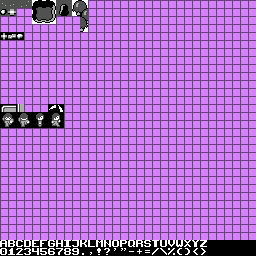
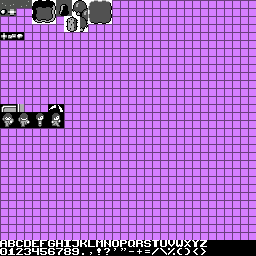
09 cactus tile and sand tile 2:16:46

Changed region(s): [[0.3438, 0.0, 0.4375, 0.0938], [0.25, 0.0625, 0.3125, 0.125]]

diff --git a/src/com/w1ll1x/ld22/level/levelgen/NoiseMap.java b/src/com/w1ll1x/ld22/level/levelgen/NoiseMap.java
@@ -1,5 +1,6 @@
 package com.w1ll1x.ld22.level.levelgen;
 
+import java.awt.Image;
 import java.awt.image.BufferedImage;
 import java.util.Random;
 
@@ -72,6 +73,10 @@ public class NoiseMap {
 	}
 
 	public static byte[][] getMap(int w, int h) {
+		NoiseMap mnoise1 = new NoiseMap(w, h, w / 8);
+		NoiseMap mnoise2 = new NoiseMap(w, h, w / 8);
+		NoiseMap mnoise3 = new NoiseMap(w, h, w / 8);
+
 		NoiseMap noise1 = new NoiseMap(w, h, w / 4);
 		NoiseMap noise2 = new NoiseMap(w, h, w / 4);
 
@@ -82,6 +87,8 @@ public class NoiseMap {
 				int i = x + y * w;
 
 				double val = Math.abs(noise1.values[i] + noise2.values[i]) * 3 - 2;
+				double mval = Math.abs(mnoise1.values[i] + mnoise2.values[i]);
+				mval = Math.abs(mval - mnoise2.values[i]) * 3 - 2;
 
 				double xd = x / (w - 1.0) * 2 - 1;
 				double yd = y / (h - 1.0) * 2 - 1;
@@ -94,16 +101,52 @@ public class NoiseMap {
 				dist = dist * dist * dist * dist;
 				val = val + 1 - dist * 20;
 
-				if (val < 0) {
+				if (val < -0.5) {
 					map[i] = Tile.water.id;
-				} else if (val > 1) {
+				} else if (val > 0.5 && mval < -1.5) {
 					map[i] = Tile.rock.id;
 				} else {
 					map[i] = Tile.grass.id;
 				}
 			}
 		}
-		
+
+		for (int i = 0; i < w * h / 400; i++) {
+			int x = random.nextInt(w);
+			int y = random.nextInt(h);
+			for (int j = 0; j < 200; j++) {
+				int xo = x + random.nextInt(8) - random.nextInt(8);
+				int yo = y + random.nextInt(8) - random.nextInt(8);
+				for (int yy = yo - 1; yy <= yo + 1; yy++) {
+					for (int xx = xo - 1; xx <= xo + 1; xx++) {
+						if (xx >= 0 && yy >= 0 && xx < w && yy < h) {
+							if (map[xx + yy * w] == Tile.grass.id) {
+								map[xx + yy * w] = Tile.sand.id;
+							}
+						}
+					}
+				}
+			}
+		}
+
+		for (int i = 0; i < w * h / 400; i++) {
+			int x = random.nextInt(w);
+			int y = random.nextInt(h);
+			for (int j = 0; j < 200; j++) {
+				int xo = x + random.nextInt(8) - random.nextInt(8);
+				int yo = y + random.nextInt(8) - random.nextInt(8);
+				for (int yy = yo - 1; yy <= yo + 1; yy++) {
+					for (int xx = xo - 1; xx <= xo + 1; xx++) {
+						if (xx >= 0 && yy >= 0 && xx < w && yy < h) {
+							if (map[xx + yy * w] == Tile.grass.id) {
+								map[xx + yy * w] = Tile.dirt.id;
+							}
+						}
+					}
+				}
+			}
+		}
+
 		for (int i = 0; i < w * h / 400; i++) {
 			int x = random.nextInt(w);
 			int y = random.nextInt(h);
@@ -117,7 +160,7 @@ public class NoiseMap {
 				}
 			}
 		}
-		
+
 		for (int i = 0; i < w * h / 400; i++) {
 			int x = random.nextInt(w);
 			int y = random.nextInt(h);
@@ -128,12 +171,22 @@ public class NoiseMap {
 				if (xx >= 0 && yy >= 0 && xx < w && yy < h) {
 					if (map[xx + yy * w] == Tile.grass.id) {
 						map[xx + yy * w] = Tile.flower.id;
-						data[xx + yy * w] = (byte)(col + random.nextInt(4) * 16);
+						data[xx + yy * w] = (byte) (col + random.nextInt(4) * 16);
 					}
 				}
 			}
 		}
-		return new byte[][] {map, data};
+
+		for (int i = 0; i < w * h / 100; i++) {
+			int xx = random.nextInt(w);
+			int yy = random.nextInt(h);
+			if (xx >= 0 && yy >= 0 && xx < w && yy < h) {
+				if (map[xx + yy * w] == Tile.sand.id) {
+					map[xx + yy * w] = Tile.cactus.id;
+				}
+			}
+		}
+		return new byte[][] { map, data };
 	}
 
 	public static void main(String[] args) {
@@ -155,10 +208,13 @@ public class NoiseMap {
 						pixels[i] = 0x208020;
 					if (map[i] == Tile.rock.id)
 						pixels[i] = 0x404040;
+					if (map[i] == Tile.dirt.id)
+						pixels[i] = 0x602020;
 				}
 			}
 			img.setRGB(0, 0, w, h, pixels, 0, w);
-			JOptionPane.showMessageDialog(null, null, "Another", JOptionPane.YES_NO_OPTION, new ImageIcon(img));
+			JOptionPane.showMessageDialog(null, null, "Another", JOptionPane.YES_NO_OPTION,
+					new ImageIcon(img.getScaledInstance(w * 4, h * 4, Image.SCALE_AREA_AVERAGING)));
 		}
 	}
 }

diff --git a/src/com/w1ll1x/ld22/level/tile/CactusTile.java b/src/com/w1ll1x/ld22/level/tile/CactusTile.java
@@ -1,0 +1,46 @@
+package com.w1ll1x.ld22.level.tile;
+
+import com.w1ll1x.ld22.entity.Entity;
+import com.w1ll1x.ld22.entity.ItemEntity;
+import com.w1ll1x.ld22.entity.Mob;
+import com.w1ll1x.ld22.entity.particle.TextParticle;
+import com.w1ll1x.ld22.gfx.Color;
+import com.w1ll1x.ld22.gfx.Screen;
+import com.w1ll1x.ld22.item.Resource;
+import com.w1ll1x.ld22.item.ResourceItem;
+import com.w1ll1x.ld22.level.Level;
+
+public class CactusTile extends Tile {
+
+	public CactusTile(int id) {
+		super(id);
+		connectsToSand = true;
+	}
+
+	public void render(Screen screen, Level level, int x, int y) {
+		int col = Color.get(20, 40, 50, level.sandColor);
+		screen.render(x * 16 + 0, y * 16 + 0, 8 + 2 * 32, col, 0);
+		screen.render(x * 16 + 8, y * 16 + 0, 9 + 2 * 32, col, 0);
+		screen.render(x * 16 + 0, y * 16 + 8, 8 + 3 * 32, col, 0);
+		screen.render(x * 16 + 8, y * 16 + 8, 9 + 3 * 32, col, 0);
+	}
+	
+	public boolean mayPass(Level level, int x, int y, Entity e) {
+		return false;
+	}
+	
+	public void hurt(Level level, int x, int y, Mob source, int dmg, int attackDir) {
+		int damage = level.getData(x, y) + dmg;
+		level.add(new TextParticle("" + dmg, x * 16 + 8, y * 16 + 8, Color.get(-1, 500, 500, 500)));
+		if (damage > 10) {
+			int count = random.nextInt(4) + 1;
+			for (int i = 0; i < count; i++) {
+				level.add(new ItemEntity(new ResourceItem(Resource.stone), x * 16 + random.nextInt(10) + 3,
+						y * 16 + random.nextInt(10) + 3));
+			}
+			level.setTile(x, y, Tile.sand, 0);
+		} else {
+			level.setData(x, y, damage);
+		}
+	}
+}

diff --git a/src/com/w1ll1x/ld22/level/tile/SandTile.java b/src/com/w1ll1x/ld22/level/tile/SandTile.java
@@ -4,22 +4,21 @@ import com.w1ll1x.ld22.gfx.Color;
 import com.w1ll1x.ld22.gfx.Screen;
 import com.w1ll1x.ld22.level.Level;
 
-public class GrassTile extends Tile {
+public class SandTile extends Tile {
 
-	public GrassTile(int id) {
+	public SandTile(int id) {
 		super(id);
-		connectsToGrass = true;
+		connectsToSand = true;
 	}
 
 	public void render(Screen screen, Level level, int x, int y) {
-		int col = Color.get(level.grassColor, level.grassColor, level.grassColor + 111, level.grassColor + 111);
-		int transitionColor = Color.get(level.grassColor - 111, level.grassColor, level.grassColor + 111,
-				level.dirtColor);
+		int col = Color.get(level.sandColor, level.sandColor, level.sandColor - 110, level.sandColor - 110);
+		int transitionColor = Color.get(level.sandColor - 110, level.sandColor, level.sandColor - 110, level.dirtColor);
 
-		boolean u = !level.getTile(x, y - 1).connectsToGrass;
-		boolean d = !level.getTile(x, y + 1).connectsToGrass;
-		boolean l = !level.getTile(x - 1, y).connectsToGrass;
-		boolean r = !level.getTile(x + 1, y).connectsToGrass;
+		boolean u = !level.getTile(x, y - 1).connectsToSand;
+		boolean d = !level.getTile(x, y + 1).connectsToSand;
+		boolean l = !level.getTile(x - 1, y).connectsToSand;
+		boolean r = !level.getTile(x + 1, y).connectsToSand;
 
 		if (!u && !l) {
 			screen.render(x * 16 + 0, y * 16 + 0, 0, col, 0);

diff --git a/src/com/w1ll1x/ld22/level/tile/RockTile.java b/src/com/w1ll1x/ld22/level/tile/RockTile.java
@@ -18,7 +18,7 @@ public class RockTile extends Tile {
 
 	public void render(Screen screen, Level level, int x, int y) {
 		int col = Color.get(444, 444, 333, 333);
-		int transitionColor = Color.get(111, 444, 555, level.grassColor);
+		int transitionColor = Color.get(111, 444, 555, level.dirtColor);
 
 		boolean u = level.getTile(x, y - 1) != this;
 		boolean d = level.getTile(x, y + 1) != this;
@@ -78,9 +78,10 @@ public class RockTile extends Tile {
 		if (damage > 32) {
 			int count = random.nextInt(4) + 1;
 			for (int i = 0; i < count; i++) {
-				level.add(new ItemEntity(new ResourceItem(Resource.stone), x * 16 + random.nextInt(10) + 3, y * 16  + random.nextInt(10) + 3));
+				level.add(new ItemEntity(new ResourceItem(Resource.stone), x * 16 + random.nextInt(10) + 3,
+						y * 16 + random.nextInt(10) + 3));
 			}
-			level.setTile(x, y, Tile.grass, 0);
+			level.setTile(x, y, Tile.dirt, 0);
 		} else {
 			level.setData(x, y, damage);
 		}

diff --git a/src/com/w1ll1x/ld22/level/tile/StoneTile.java b/src/com/w1ll1x/ld22/level/tile/StoneTile.java
@@ -15,10 +15,10 @@ public class StoneTile extends Tile {
 		int rc1 = 111;
 		int rc2 = 222;
 		int rc3 = 333;
-		screen.render(x * 16 + 0, y * 16 + 0, 32, Color.get(rc1, level.grassColor, rc2, rc3), 0);
-		screen.render(x * 16 + 8, y * 16 + 0, 32, Color.get(rc1, level.grassColor, rc2, rc3), 0);
-		screen.render(x * 16 + 0, y * 16 + 8, 32, Color.get(rc1, level.grassColor, rc2, rc3), 0);
-		screen.render(x * 16 + 8, y * 16 + 8, 32, Color.get(rc1, level.grassColor, rc2, rc3), 0);
+		screen.render(x * 16 + 0, y * 16 + 0, 32, Color.get(rc1, level.dirtColor, rc2, rc3), 0);
+		screen.render(x * 16 + 8, y * 16 + 0, 32, Color.get(rc1, level.dirtColor, rc2, rc3), 0);
+		screen.render(x * 16 + 0, y * 16 + 8, 32, Color.get(rc1, level.dirtColor, rc2, rc3), 0);
+		screen.render(x * 16 + 8, y * 16 + 8, 32, Color.get(rc1, level.dirtColor, rc2, rc3), 0);
 	}
 	
 	public boolean mayPass(Level level, int x, int y, Entity e) {

diff --git a/src/com/w1ll1x/ld22/level/tile/DirtTile.java b/src/com/w1ll1x/ld22/level/tile/DirtTile.java
@@ -1,0 +1,20 @@
+package com.w1ll1x.ld22.level.tile;
+
+import com.w1ll1x.ld22.gfx.Color;
+import com.w1ll1x.ld22.gfx.Screen;
+import com.w1ll1x.ld22.level.Level;
+
+public class DirtTile extends Tile {
+
+	public DirtTile(int id) {
+		super(id);
+	}
+
+	public void render(Screen screen, Level level, int x, int y) {
+		int col = Color.get(level.dirtColor, level.dirtColor, level.dirtColor - 111, level.dirtColor - 111);
+		screen.render(x * 16 + 0, y * 16 + 0, 0, col, 0);
+		screen.render(x * 16 + 8, y * 16 + 0, 1, col, 0);
+		screen.render(x * 16 + 0, y * 16 + 8, 2, col, 0);
+		screen.render(x * 16 + 8, y * 16 + 8, 3, col, 0);
+	}
+}

diff --git a/src/com/w1ll1x/ld22/level/tile/Tile.java b/src/com/w1ll1x/ld22/level/tile/Tile.java
@@ -15,11 +15,17 @@ public class Tile {
 	public static Tile water = new WaterTile(2);
 	public static Tile flower = new FlowerTile(3);
 	public static Tile tree = new TreeTile(4);
+	public static Tile dirt = new DirtTile(5);
+	public static Tile sand = new SandTile(6);
+	public static Tile cactus = new CactusTile(7);
 
 	public final byte id;
+	public boolean connectsToGrass = false;
+	public boolean connectsToSand = false;
 
 	public Tile(int id) {
 		this.id = (byte) id;
+		if (tiles[id] != null) throw new RuntimeException("Duplicate tile ids!");
 		tiles[id] = this;
 	}
 

diff --git a/src/com/w1ll1x/ld22/item/ResourceItem.java b/src/com/w1ll1x/ld22/item/ResourceItem.java
@@ -1,8 +1,6 @@
 package com.w1ll1x.ld22.item;
 
 import com.w1ll1x.ld22.entity.ItemEntity;
-import com.w1ll1x.ld22.entity.particle.TextParticle;
-import com.w1ll1x.ld22.gfx.Color;
 
 public class ResourceItem extends Item {
 	public Resource resource;
@@ -20,7 +18,5 @@ public class ResourceItem extends Item {
 	}
 
 	public void onTake(ItemEntity itemEntity) {
-		itemEntity.level
-				.add(new TextParticle("+" + resource.name, itemEntity.x, itemEntity.y, Color.get(-1, 555, 555, 555)));
 	}
 }

diff --git a/src/com/w1ll1x/ld22/level/tile/WaterTile.java b/src/com/w1ll1x/ld22/level/tile/WaterTile.java
@@ -13,7 +13,7 @@ public class WaterTile extends Tile {
 
 	public void render(Screen screen, Level level, int x, int y) {
 		int col = Color.get(4, 4, 5, 5);
-		int transitionColor = Color.get(100, 4, 211, level.grassColor);
+		int transitionColor = Color.get(100, 4, 211, level.dirtColor);
 
 		boolean u = level.getTile(x, y - 1) != this;
 		boolean d = level.getTile(x, y + 1) != this;

diff --git a/src/com/w1ll1x/ld22/level/Level.java b/src/com/w1ll1x/ld22/level/Level.java
@@ -18,6 +18,8 @@ public class Level {
 	public List<Entity>[] entitiesInTiles;
 
 	public int grassColor = 141;
+	public int dirtColor = 322;
+	public int sandColor = 550;
 
 	public List<Entity> entities = new ArrayList<Entity>();
 	private Comparator<Entity> spriteSorter = new Comparator<Entity>() {

diff --git a/src/com/w1ll1x/ld22/level/tile/FlowerTile.java b/src/com/w1ll1x/ld22/level/tile/FlowerTile.java
@@ -13,6 +13,7 @@ public class FlowerTile extends GrassTile {
 	public FlowerTile(int id) {
 		super(id);
 		tiles[id] = this;
+		connectsToGrass = true;
 	}
 
 	public void render(Screen screen, Level level, int x, int y) {

diff --git a/src/com/w1ll1x/ld22/level/tile/TreeTile.java b/src/com/w1ll1x/ld22/level/tile/TreeTile.java
@@ -14,6 +14,7 @@ public class TreeTile extends Tile {
 
 	public TreeTile(int id) {
 		super(id);
+		connectsToGrass = true;
 	}
 
 	public void render(Screen screen, Level level, int x, int y) {
